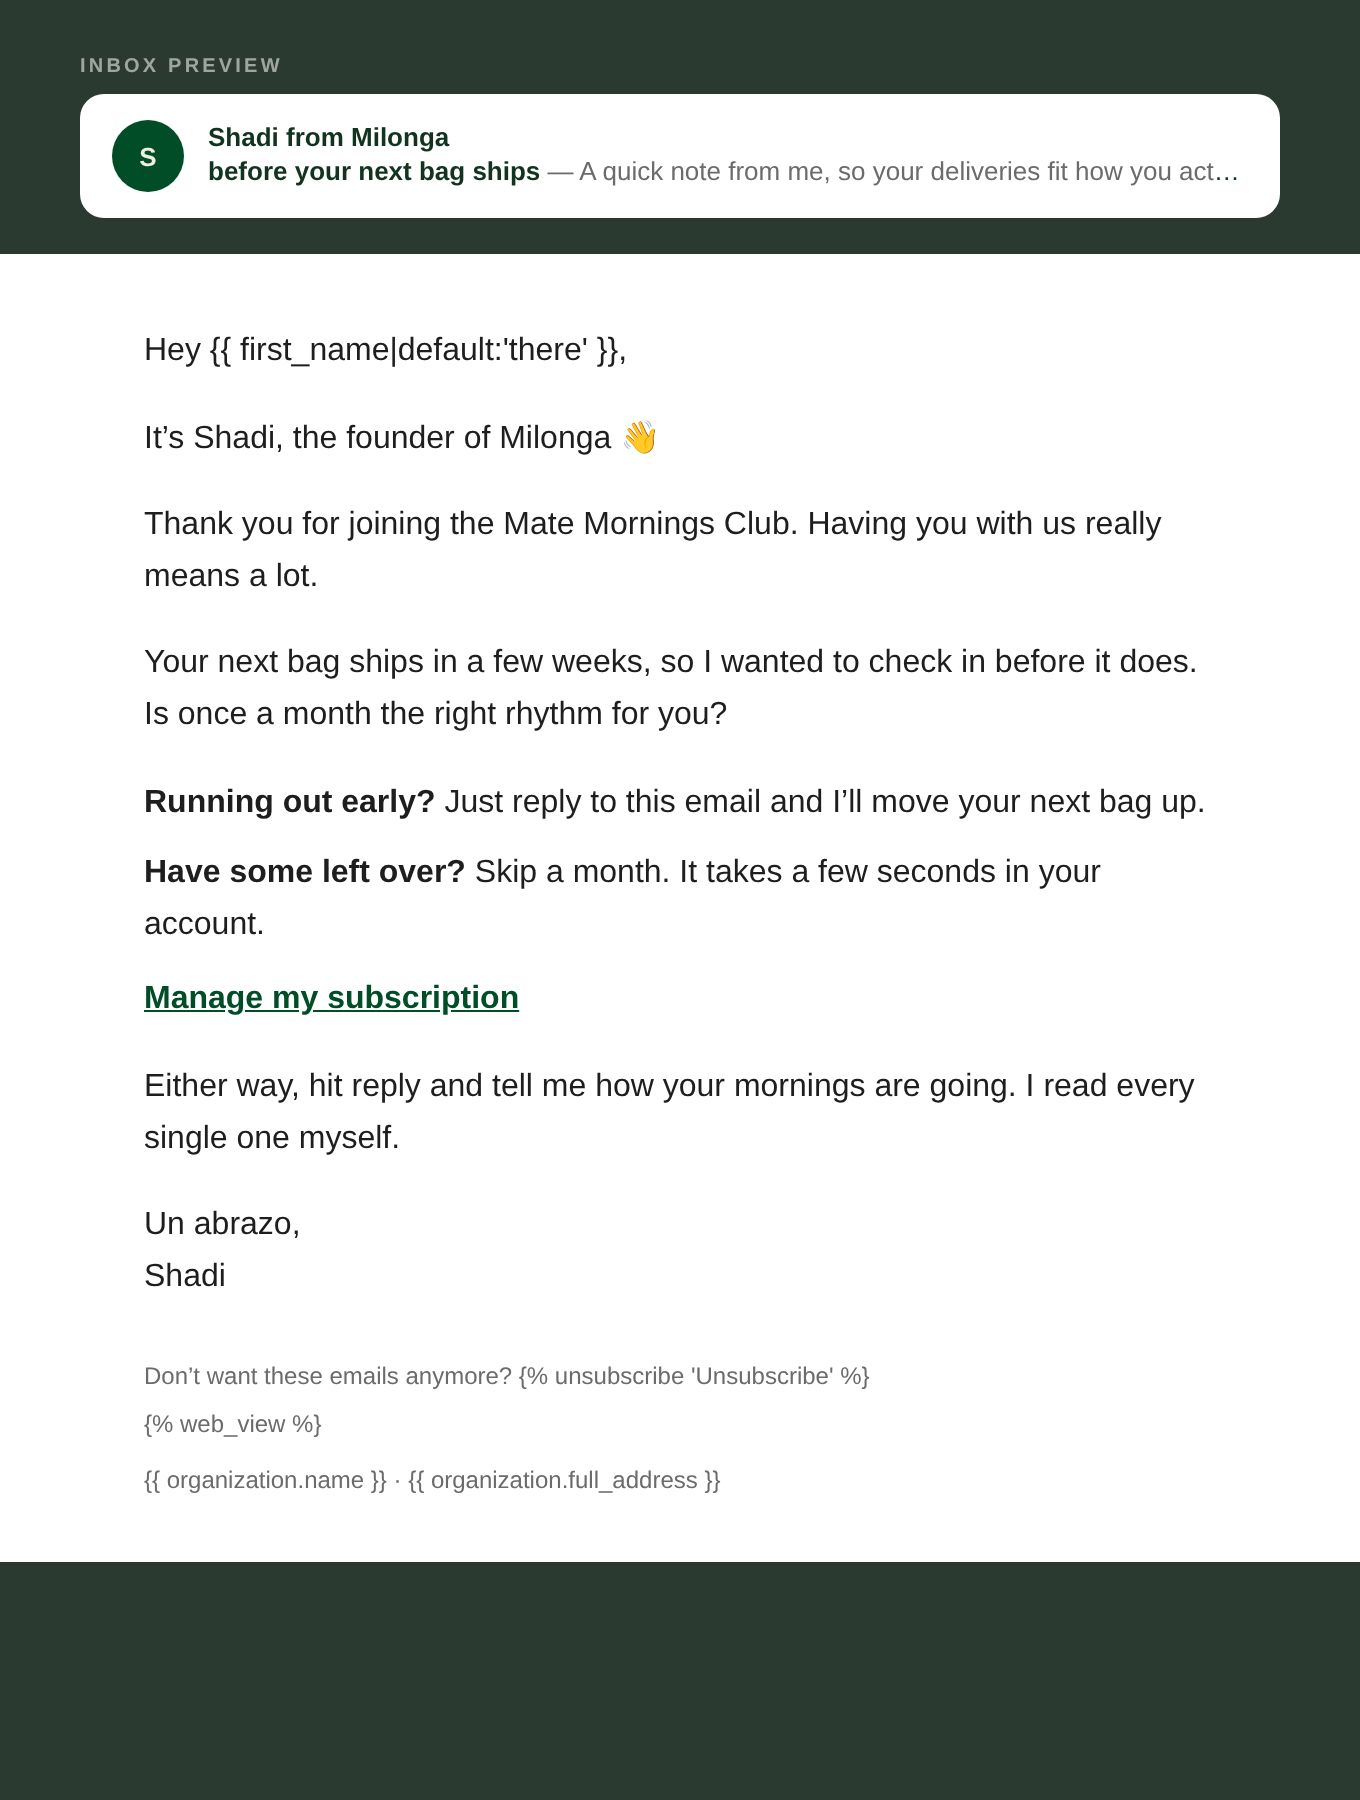
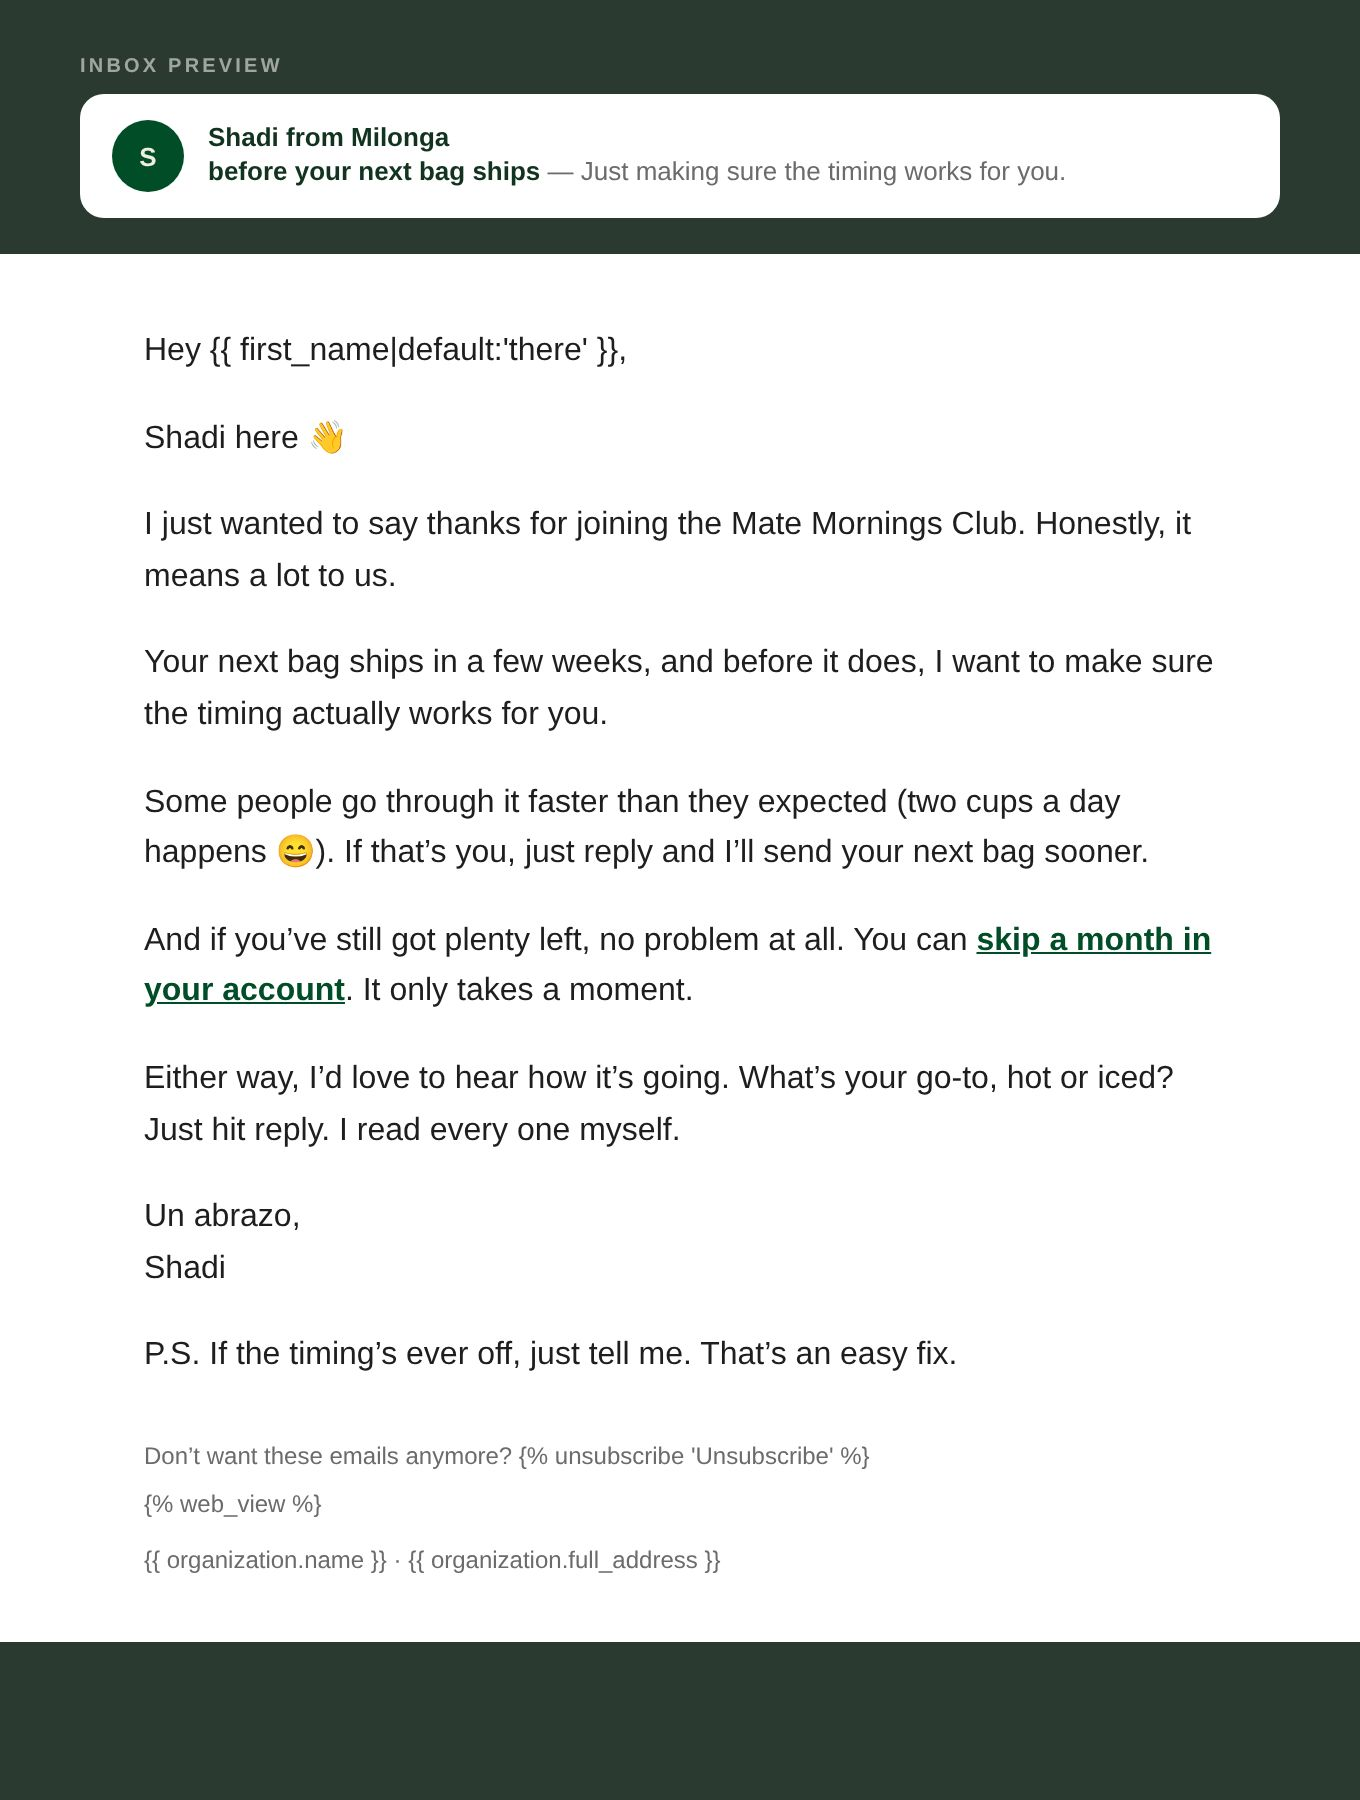
Subscribers E2: warmer, more natural letter
Claude-Session: https://claude.ai/code/session_01NhEtXPnfeCJfN73SqBkUZ5

diff --git a/email-ds/refine/sub1-e2.html b/email-ds/refine/sub1-e2.html
@@ -1,4 +1,4 @@
-<!doctype html><html><head><meta charset="utf-8"><meta name="viewport" content="width=device-width,initial-scale=1"><style>body{margin:0;background:#2B3A31;padding:28px 0 60px}.inbox{width:600px;max-width:calc(100% - 24px);margin:0 auto 18px;font-family:Helvetica,Arial,sans-serif}.lab{font-size:10px;font-weight:700;letter-spacing:.16em;text-transform:uppercase;color:rgba(255,255,255,.55);margin-bottom:8px}.row{background:#fff;border-radius:12px;padding:13px 16px;display:grid;grid-template-columns:36px 1fr;column-gap:12px;align-items:center}.av{grid-row:1/span 2;width:36px;height:36px;border-radius:50%;background:#004D27;color:#F0EFDF;display:grid;place-items:center;font-weight:900;font-size:13px}.from{font-weight:700;font-size:13px;color:#12331F}.sub{font-size:13px;line-height:1.4;color:#12331F;white-space:nowrap;overflow:hidden;text-overflow:ellipsis}.sub span{color:#6b6b6b}</style></head><body><div class="inbox"><div class="lab">Inbox preview</div><div class="row"><div class="av">S</div><div class="from">Shadi from Milonga</div><div class="sub"><b>before your next bag ships</b> <span>&mdash; A quick note from me, so your deliveries fit how you actually drink it.</span></div></div></div><style>
+<!doctype html><html><head><meta charset="utf-8"><meta name="viewport" content="width=device-width,initial-scale=1"><style>body{margin:0;background:#2B3A31;padding:28px 0 60px}.inbox{width:600px;max-width:calc(100% - 24px);margin:0 auto 18px;font-family:Helvetica,Arial,sans-serif}.lab{font-size:10px;font-weight:700;letter-spacing:.16em;text-transform:uppercase;color:rgba(255,255,255,.55);margin-bottom:8px}.row{background:#fff;border-radius:12px;padding:13px 16px;display:grid;grid-template-columns:36px 1fr;column-gap:12px;align-items:center}.av{grid-row:1/span 2;width:36px;height:36px;border-radius:50%;background:#004D27;color:#F0EFDF;display:grid;place-items:center;font-weight:900;font-size:13px}.from{font-weight:700;font-size:13px;color:#12331F}.sub{font-size:13px;line-height:1.4;color:#12331F;white-space:nowrap;overflow:hidden;text-overflow:ellipsis}.sub span{color:#6b6b6b}</style></head><body><div class="inbox"><div class="lab">Inbox preview</div><div class="row"><div class="av">S</div><div class="from">Shadi from Milonga</div><div class="sub"><b>before your next bag ships</b> <span>&mdash; Just making sure the timing works for you.</span></div></div></div><style>
   .unsub-pill a { color:#6B6B6B !important; text-decoration:underline !important; }
   .web-view-line a { color:#6B6B6B !important; }
   @media only screen and (max-width:620px) { .wrap { width:100% !important; } .pad { padding:28px 22px !important; } }
@@ -8,14 +8,14 @@
 <tr><td class="pad" align="left" style="padding:36px 32px 28px;font-family:Helvetica, Arial, sans-serif;font-size:16px;line-height:1.6;color:#1E1E1E;">
 
 <p style="margin:0 0 18px;">Hey {{ first_name|default:'there' }},</p>
-<p style="margin:0 0 18px;">It&rsquo;s Shadi, the founder of Milonga 👋</p>
-<p style="margin:0 0 18px;">Thank you for joining the Mate Mornings Club. Having you with us really means a lot.</p>
-<p style="margin:0 0 18px;">Your next bag ships in a few weeks, so I wanted to check in before it does. Is once a month the right rhythm for you?</p>
-<p style="margin:0 0 10px;"><strong>Running out early?</strong> Just reply to this email and I&rsquo;ll move your next bag up.</p>
-<p style="margin:0 0 12px;"><strong>Have some left over?</strong> Skip a month. It takes a few seconds in your account.</p>
-<p style="margin:0 0 18px;"><a href="https://milonga.life/apps/subscriptions" target="_blank" style="color:#004D27;font-weight:bold;text-decoration:underline;">Manage my subscription</a></p>
-<p style="margin:0 0 18px;">Either way, hit reply and tell me how your mornings are going. I read every single one myself.</p>
-<p style="margin:0 0 0px;">Un abrazo,<br>Shadi</p>
+<p style="margin:0 0 18px;">Shadi here 👋</p>
+<p style="margin:0 0 18px;">I just wanted to say thanks for joining the Mate Mornings Club. Honestly, it means a lot to us.</p>
+<p style="margin:0 0 18px;">Your next bag ships in a few weeks, and before it does, I want to make sure the timing actually works for you.</p>
+<p style="margin:0 0 18px;">Some people go through it faster than they expected (two cups a day happens 😄). If that&rsquo;s you, just reply and I&rsquo;ll send your next bag sooner.</p>
+<p style="margin:0 0 18px;">And if you&rsquo;ve still got plenty left, no problem at all. You can <a href="https://milonga.life/apps/subscriptions" target="_blank" style="color:#004D27;font-weight:bold;text-decoration:underline;">skip a month in your account</a>. It only takes a moment.</p>
+<p style="margin:0 0 18px;">Either way, I&rsquo;d love to hear how it&rsquo;s going. What&rsquo;s your go-to, hot or iced? Just hit reply. I read every one myself.</p>
+<p style="margin:0 0 18px;">Un abrazo,<br>Shadi</p>
+<p style="margin:6px 0 0;">P.S. If the timing&rsquo;s ever off, just tell me. That&rsquo;s an easy fix.</p>
 
 </td></tr>
 <tr><td class="pad" align="left" style="padding:0 32px 32px;font-family:Helvetica, Arial, sans-serif;font-size:12px;line-height:1.5;color:#6B6B6B;">

diff --git a/email-ds/exports/klaviyo/sub1-e2/sub1-e2.html b/email-ds/exports/klaviyo/sub1-e2/sub1-e2.html
@@ -7,7 +7,7 @@
 <title>before your next bag ships</title>
 <!--
   POST-PURCHASE · MATE MORNINGS CLUB SUBSCRIBERS · EMAIL 2 · "before your next bag ships"
-  Preview text: A quick note from me, so your deliveries fit how you actually drink it.
+  Preview text: Just making sure the timing works for you.
   From: Shadi from Milonga · reply-to: an inbox Shadi reads · day 10 after the subscription starts
   A plain letter: no images, one link (the subscription portal). Full document for a Klaviyo code template. GENERATED by scripts/make-sub1-e2.mjs.
 -->
@@ -24,14 +24,14 @@
 <tr><td class="pad" align="left" style="padding:36px 32px 28px;font-family:Helvetica, Arial, sans-serif;font-size:16px;line-height:1.6;color:#1E1E1E;">
 
 <p style="margin:0 0 18px;">Hey {{ first_name|default:'there' }},</p>
-<p style="margin:0 0 18px;">It&rsquo;s Shadi, the founder of Milonga 👋</p>
-<p style="margin:0 0 18px;">Thank you for joining the Mate Mornings Club. Having you with us really means a lot.</p>
-<p style="margin:0 0 18px;">Your next bag ships in a few weeks, so I wanted to check in before it does. Is once a month the right rhythm for you?</p>
-<p style="margin:0 0 10px;"><strong>Running out early?</strong> Just reply to this email and I&rsquo;ll move your next bag up.</p>
-<p style="margin:0 0 12px;"><strong>Have some left over?</strong> Skip a month. It takes a few seconds in your account.</p>
-<p style="margin:0 0 18px;"><a href="https://milonga.life/apps/subscriptions" target="_blank" style="color:#004D27;font-weight:bold;text-decoration:underline;">Manage my subscription</a></p>
-<p style="margin:0 0 18px;">Either way, hit reply and tell me how your mornings are going. I read every single one myself.</p>
-<p style="margin:0 0 0px;">Un abrazo,<br>Shadi</p>
+<p style="margin:0 0 18px;">Shadi here 👋</p>
+<p style="margin:0 0 18px;">I just wanted to say thanks for joining the Mate Mornings Club. Honestly, it means a lot to us.</p>
+<p style="margin:0 0 18px;">Your next bag ships in a few weeks, and before it does, I want to make sure the timing actually works for you.</p>
+<p style="margin:0 0 18px;">Some people go through it faster than they expected (two cups a day happens 😄). If that&rsquo;s you, just reply and I&rsquo;ll send your next bag sooner.</p>
+<p style="margin:0 0 18px;">And if you&rsquo;ve still got plenty left, no problem at all. You can <a href="https://milonga.life/apps/subscriptions" target="_blank" style="color:#004D27;font-weight:bold;text-decoration:underline;">skip a month in your account</a>. It only takes a moment.</p>
+<p style="margin:0 0 18px;">Either way, I&rsquo;d love to hear how it&rsquo;s going. What&rsquo;s your go-to, hot or iced? Just hit reply. I read every one myself.</p>
+<p style="margin:0 0 18px;">Un abrazo,<br>Shadi</p>
+<p style="margin:6px 0 0;">P.S. If the timing&rsquo;s ever off, just tell me. That&rsquo;s an easy fix.</p>
 
 </td></tr>
 <tr><td class="pad" align="left" style="padding:0 32px 32px;font-family:Helvetica, Arial, sans-serif;font-size:12px;line-height:1.5;color:#6B6B6B;">
